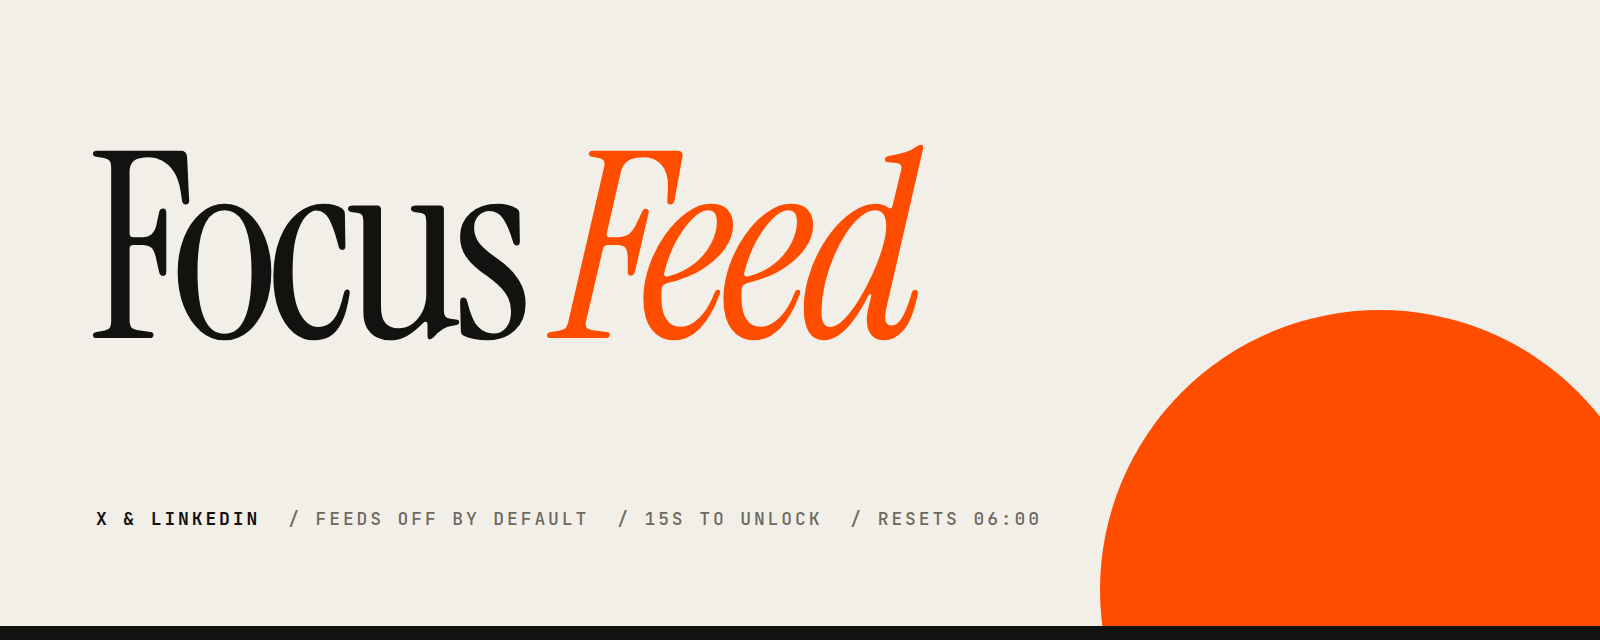
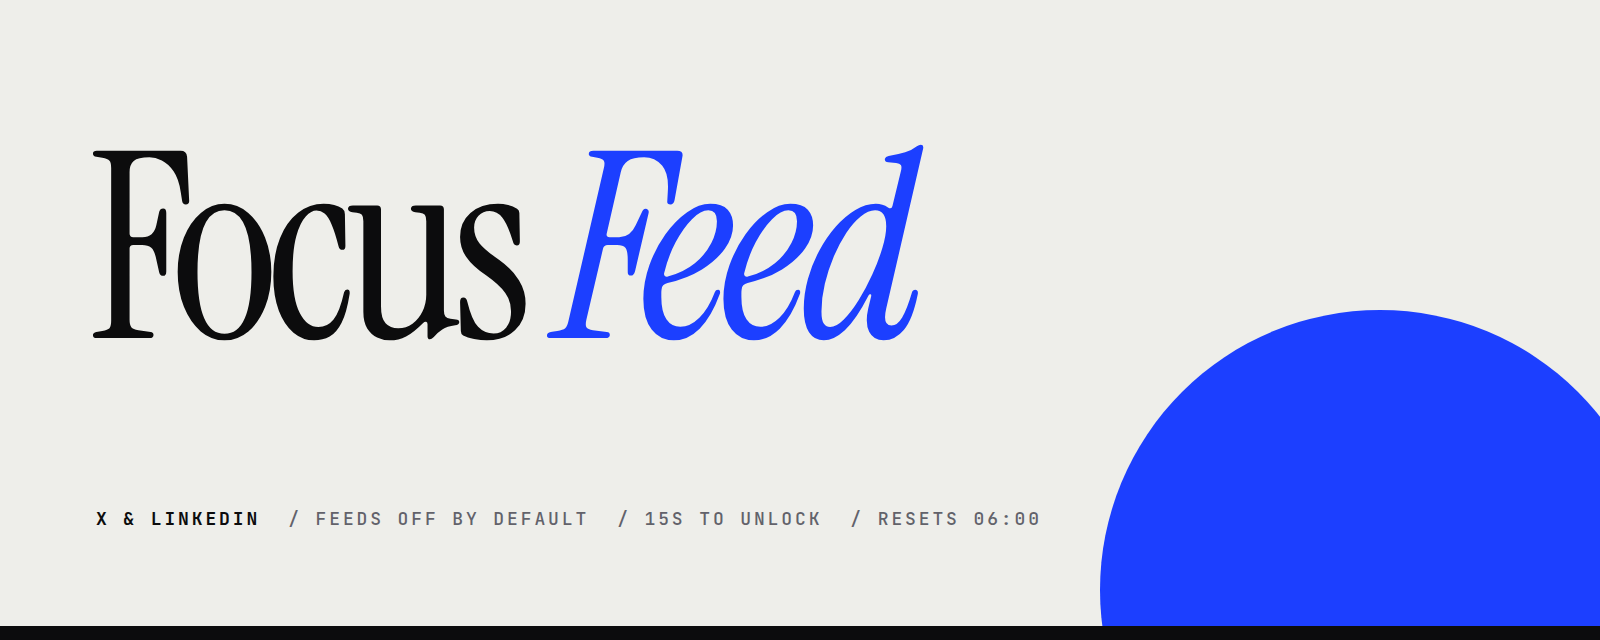
New palette and a wide, short card
Cool paper and ink with a Klein-blue accent instead of warm beige and
orange, across the card, popup, icon and banner. The locked, countdown and
notifications cards are now a single wide strip.

Claude-Session: https://claude.ai/code/session_019wYDAkvVAkTK5tytooeze4

Changed region(s): [[0.6875, 0.4688, 1.0, 1.0], [0.3438, 0.2188, 0.5938, 0.5312]]

diff --git a/focus.js b/focus.js
@@ -69,68 +69,73 @@
   const CARD_CSS = `
     :host { all: initial; }
     .wrap {
-      --paper: #f2efe8; --ink: #121211; --muted: #6d695f; --line: rgba(18,18,17,.14);
-      --signal: #ff4d00; --shadow: #121211;
-      position: fixed; left: 50%; bottom: 28px; transform: translateX(-50%);
+      --paper: #eeeeea; --ink: #0c0c0d; --muted: #62626a; --line: rgba(12,12,13,.14);
+      --signal: #1c3fff; --shadow: #0c0c0d;
+      position: fixed; left: 50%; bottom: 24px; transform: translateX(-50%);
       z-index: 2147483647;
       font: 500 12px/1.5 "FF Mono", ui-monospace, "SF Mono", Menlo, monospace;
       color: var(--ink);
       -webkit-font-smoothing: antialiased;
     }
     @media (prefers-color-scheme: dark) {
-      .wrap { --paper: #121211; --ink: #f2efe8; --muted: #9c978b; --line: rgba(242,239,232,.16); --shadow: #ff4d00; }
+      .wrap { --paper: #0c0c0d; --ink: #eeeeea; --muted: #9a9aa3; --line: rgba(238,238,234,.16); --signal: #5b78ff; --shadow: #5b78ff; }
     }
     .card {
-      box-sizing: border-box; width: min(392px, calc(100vw - 32px));
-      padding: 18px 20px 20px; background: var(--paper);
+      box-sizing: border-box; width: min(680px, calc(100vw - 32px));
+      padding: 14px 18px 16px; background: var(--paper);
       border: 1.5px solid var(--ink); border-radius: 2px;
-      box-shadow: 7px 7px 0 var(--shadow);
+      box-shadow: 6px 6px 0 var(--shadow);
       animation: rise .32s cubic-bezier(.2,.8,.2,1) both;
     }
     @keyframes rise { from { opacity: 0; transform: translateY(14px); } }
     .meta {
-      display: flex; align-items: center; gap: 8px; margin-bottom: 18px;
-      font-size: 10.5px; font-weight: 700; letter-spacing: .14em; text-transform: uppercase;
+      display: flex; align-items: center; gap: 8px; margin-bottom: 10px;
+      font-size: 10px; font-weight: 700; letter-spacing: .14em; text-transform: uppercase;
     }
     .meta .dim { color: var(--muted); font-weight: 500; }
     .meta .end { margin-left: auto; color: var(--muted); font-weight: 500; }
     .dot { width: 8px; height: 8px; border-radius: 50%; background: var(--signal); flex: none; }
+    .row { display: flex; align-items: center; gap: 20px; }
+    .text { flex: 1; min-width: 0; }
+    .text p { white-space: nowrap; overflow: hidden; text-overflow: ellipsis; }
+    .num + .text p { white-space: normal; }
     h1 {
-      margin: 0 0 10px; font: 400 38px/1 "FF Serif", "Instrument Serif", Georgia, serif;
-      letter-spacing: -.02em;
+      margin: 0 0 4px; font: 400 30px/1 "FF Serif", "Instrument Serif", Georgia, serif;
+      letter-spacing: -.015em; white-space: nowrap;
     }
     h1 em { font-style: italic; color: var(--signal); }
-    p { margin: 0 0 16px; color: var(--muted); font-size: 12px; line-height: 1.55; }
-    .stats {
-      display: grid; grid-template-columns: 1fr 1fr; margin: 0 0 18px;
-      border-top: 1px solid var(--line); border-bottom: 1px solid var(--line);
+    p { margin: 0; color: var(--muted); font-size: 11px; line-height: 1.5; }
+    .stats { display: flex; flex: none; border-left: 1px solid var(--line); }
+    .stats > div { padding: 0 16px; border-right: 1px solid var(--line); }
+    .stats b {
+      display: block; font: italic 400 28px/1 "FF Serif", Georgia, serif;
+      letter-spacing: -.02em; font-variant-numeric: tabular-nums;
     }
-    .stats > div { padding: 10px 0; }
-    .stats > div + div { padding-left: 14px; border-left: 1px solid var(--line); }
-    .stats b { display: block; font: italic 400 32px/1 "FF Serif", Georgia, serif; letter-spacing: -.02em; }
-    .stats span { font-size: 10px; letter-spacing: .12em; text-transform: uppercase; color: var(--muted); }
-    .actions { display: flex; gap: 8px; flex-wrap: wrap; }
+    .stats span {
+      display: block; margin-top: 4px; font-size: 9px; letter-spacing: .12em;
+      text-transform: uppercase; color: var(--muted); white-space: nowrap;
+    }
+    .actions { display: flex; gap: 8px; flex: none; }
     button {
-      all: unset; box-sizing: border-box; cursor: pointer;
+      all: unset; box-sizing: border-box; cursor: pointer; white-space: nowrap;
       display: inline-flex; align-items: center; gap: 10px;
       padding: 11px 16px; border: 1.5px solid var(--ink); border-radius: 999px;
       font: 700 11px/1 "FF Mono", ui-monospace, Menlo, monospace;
       letter-spacing: .12em; text-transform: uppercase;
       background: var(--ink); color: var(--paper);
-      transition: transform .15s ease, background .15s ease, color .15s ease;
+      transition: transform .15s ease;
     }
     button:hover { transform: translate(-1px, -1px); }
     button:active { transform: translate(1px, 1px); }
     button:focus-visible { outline: 2px solid var(--signal); outline-offset: 3px; }
     button .tag { color: var(--signal); }
+    @media (prefers-color-scheme: light) { button .tag { color: #8da0ff; } }
     button.ghost { background: transparent; color: var(--ink); }
-    .count { display: flex; align-items: baseline; gap: 10px; margin: -6px 0 6px; }
     .num {
-      font: italic 400 112px/.9 "FF Serif", Georgia, serif; letter-spacing: -.04em;
-      color: var(--ink); font-variant-numeric: tabular-nums;
+      flex: none; min-width: 64px; font: italic 400 72px/.8 "FF Serif", Georgia, serif;
+      letter-spacing: -.04em; font-variant-numeric: tabular-nums;
     }
-    .unit { font-size: 11px; letter-spacing: .14em; text-transform: uppercase; color: var(--muted); }
-    .bar { height: 3px; background: var(--line); margin: 0 0 18px; overflow: hidden; }
+    .bar { height: 3px; background: var(--line); margin-top: 10px; overflow: hidden; }
     .bar > i { display: block; height: 100%; width: 0; background: var(--signal); transition: width .25s linear; }
     .pill {
       padding: 12px 18px 12px 14px;
@@ -139,6 +144,13 @@
     }
     .pill .dot { animation: breathe 2.4s ease-in-out infinite; }
     @keyframes breathe { 50% { opacity: .35; transform: scale(.7); } }
+    @media (max-width: 640px) {
+      .row { flex-wrap: wrap; gap: 12px; }
+      .text { flex-basis: 100%; }
+      .stats { border-left: 0; }
+      .stats > div:first-child { padding-left: 0; }
+      h1 { white-space: normal; }
+    }
     @media (prefers-reduced-motion: reduce) {
       .card, .pill, .pill .dot { animation: none; }
       button, .bar > i { transition: none; }
@@ -201,9 +213,10 @@
       key = "notifications";
       html = `<div class="card">
         ${meta("Notifications")}
-        <h1>Notifications are <em>off</em>.</h1>
-        <p>Messages still work.</p>
-        <div class="actions"><button type="button" data-action="messages">Open messages</button></div>
+        <div class="row">
+          <div class="text"><h1>Notifications are <em>off</em>.</h1><p>Messages still work.</p></div>
+          <div class="actions"><button type="button" data-action="messages">Open messages</button></div>
+        </div>
       </div>`;
     } else if (page !== "feed") {
       key = "none";
@@ -214,30 +227,39 @@
       key = "counting";
       html = `<div class="card">
         ${meta("Unlocking", SITE_NAME)}
-        <div class="count"><span class="num">${Math.ceil(remainingSeconds())}</span><span class="unit">seconds</span></div>
-        <p>Stay on this page. Switching tabs or apps resets the timer.</p>
-        <div class="bar"><i></i></div>
-        <div class="actions"><button type="button" class="ghost" data-action="cancel">Never mind</button></div>
+        <div class="row">
+          <span class="num">${Math.ceil(remainingSeconds())}</span>
+          <div class="text">
+            <h1>seconds to <em>go</em>.</h1>
+            <p>Stay on this page. Switching tabs or apps resets the timer.</p>
+            <div class="bar"><i></i></div>
+          </div>
+          <div class="actions"><button type="button" class="ghost" data-action="cancel">Never mind</button></div>
+        </div>
       </div>`;
     } else {
       key = `locked:${resetNotice}:${liFallback}:${today.blocked}:${today.minutes}`;
-      const sessions = today.blocked === 1 ? "session blocked" : "sessions blocked";
+      const sessions = "Blocked today";
       html = `<div class="card">
         ${meta(SITE_NAME, `Resets ${resetLabel()}`)}
-        <h1>The feed is <em>quiet</em>.</h1>
-        <p>${
-          resetNotice
-            ? "You left the page, so the timer reset."
-            : `Posting still works. Want the feed anyway? Stay here for ${FF.UNLOCK_SECONDS} seconds and it stays open until ${resetLabel()}.`
-        }</p>
-        <div class="stats">
-          <div><b>${today.blocked}</b><span>${sessions} today</span></div>
-          <div><b>${FF.formatMinutes(today.minutes)}</b><span>won back today</span></div>
-        </div>
-        <div class="actions">
-          <button type="button" data-action="start">Show feed <span class="tag">${FF.UNLOCK_SECONDS}s</span></button>${
-            liFallback ? '<button type="button" class="ghost" data-action="compose">Write a post</button>' : ""
-          }
+        <div class="row">
+          <div class="text">
+            <h1>The feed is <em>quiet</em>.</h1>
+            <p>${
+              resetNotice
+                ? "You left the page, so the timer reset."
+                : "Posting and messages still work."
+            }</p>
+          </div>
+          <div class="stats">
+            <div><b>${today.blocked}</b><span>${sessions}</span></div>
+            <div><b>${FF.formatMinutes(today.minutes)}</b><span>Won back</span></div>
+          </div>
+          <div class="actions">
+            <button type="button" data-action="start">Show feed <span class="tag">${FF.UNLOCK_SECONDS}s</span></button>${
+              liFallback ? '<button type="button" class="ghost" data-action="compose">Write a post</button>' : ""
+            }
+          </div>
         </div>
       </div>`;
     }

diff --git a/popup.css b/popup.css
@@ -4,12 +4,12 @@
 @font-face { font-family: "FF Mono"; src: url("fonts/jetbrains-mono-latin-700-normal.woff2") format("woff2"); font-weight: 700; }
 
 :root {
-  --paper: #f2efe8; --ink: #121211; --muted: #6d695f; --line: rgba(18,18,17,.14);
-  --bar: #121211; --signal: #ff4d00;
+  --paper: #eeeeea; --ink: #0c0c0d; --muted: #62626a; --line: rgba(12,12,13,.14);
+  --bar: #0c0c0d; --signal: #1c3fff;
   color-scheme: light;
 }
 @media (prefers-color-scheme: dark) {
-  :root { --paper: #121211; --ink: #f2efe8; --muted: #9c978b; --line: rgba(242,239,232,.16); --bar: #d8d4ca; color-scheme: dark; }
+  :root { --paper: #0c0c0d; --ink: #eeeeea; --muted: #9a9aa3; --line: rgba(238,238,234,.16); --bar: #d4d4d8; --signal: #5b78ff; color-scheme: dark; }
 }
 
 * { box-sizing: border-box; }
@@ -82,7 +82,7 @@ button {
   background: var(--ink); color: var(--paper); border: 1.5px solid var(--ink);
   letter-spacing: .13em; text-transform: uppercase;
 }
-button:hover { background: var(--signal); border-color: var(--signal); color: #121211; }
+button:hover { background: var(--signal); border-color: var(--signal); color: #fff; }
 button:focus-visible { outline: 2px solid var(--signal); outline-offset: 2px; }
 
 .foot { padding-top: 12px; border-top: 1.5px solid var(--ink); font-size: 9px; color: var(--muted); line-height: 1.6; }
